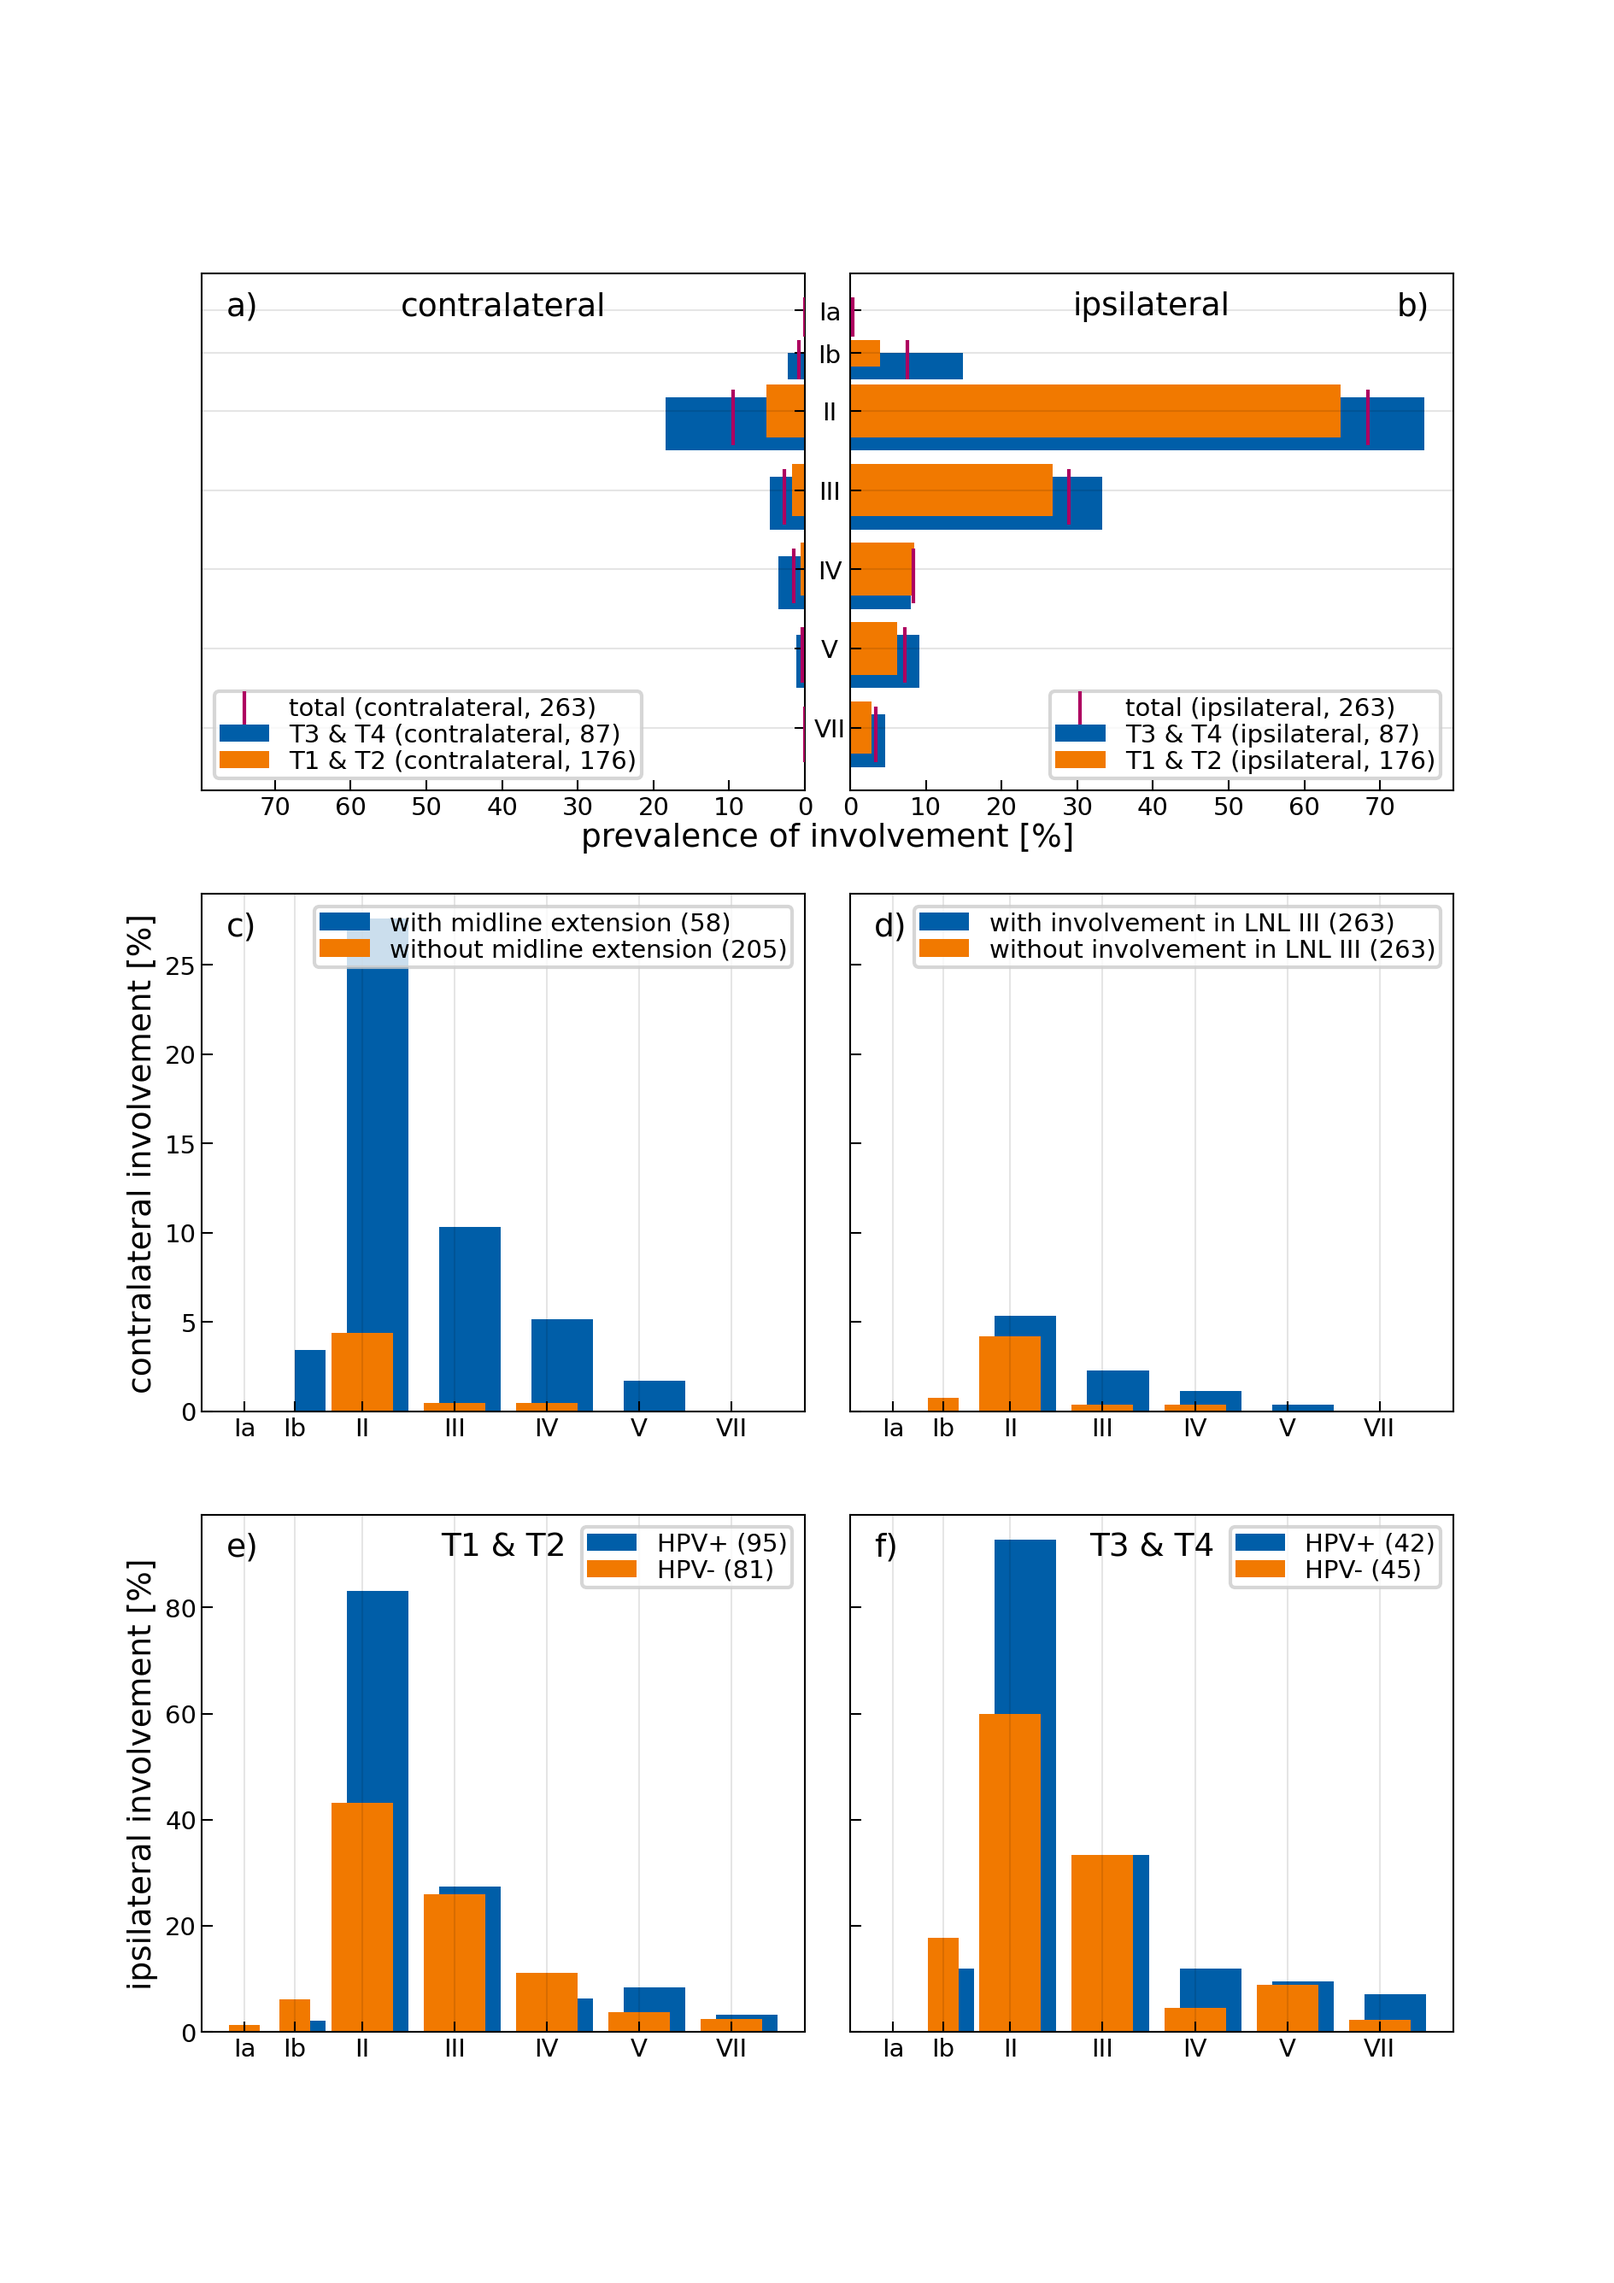
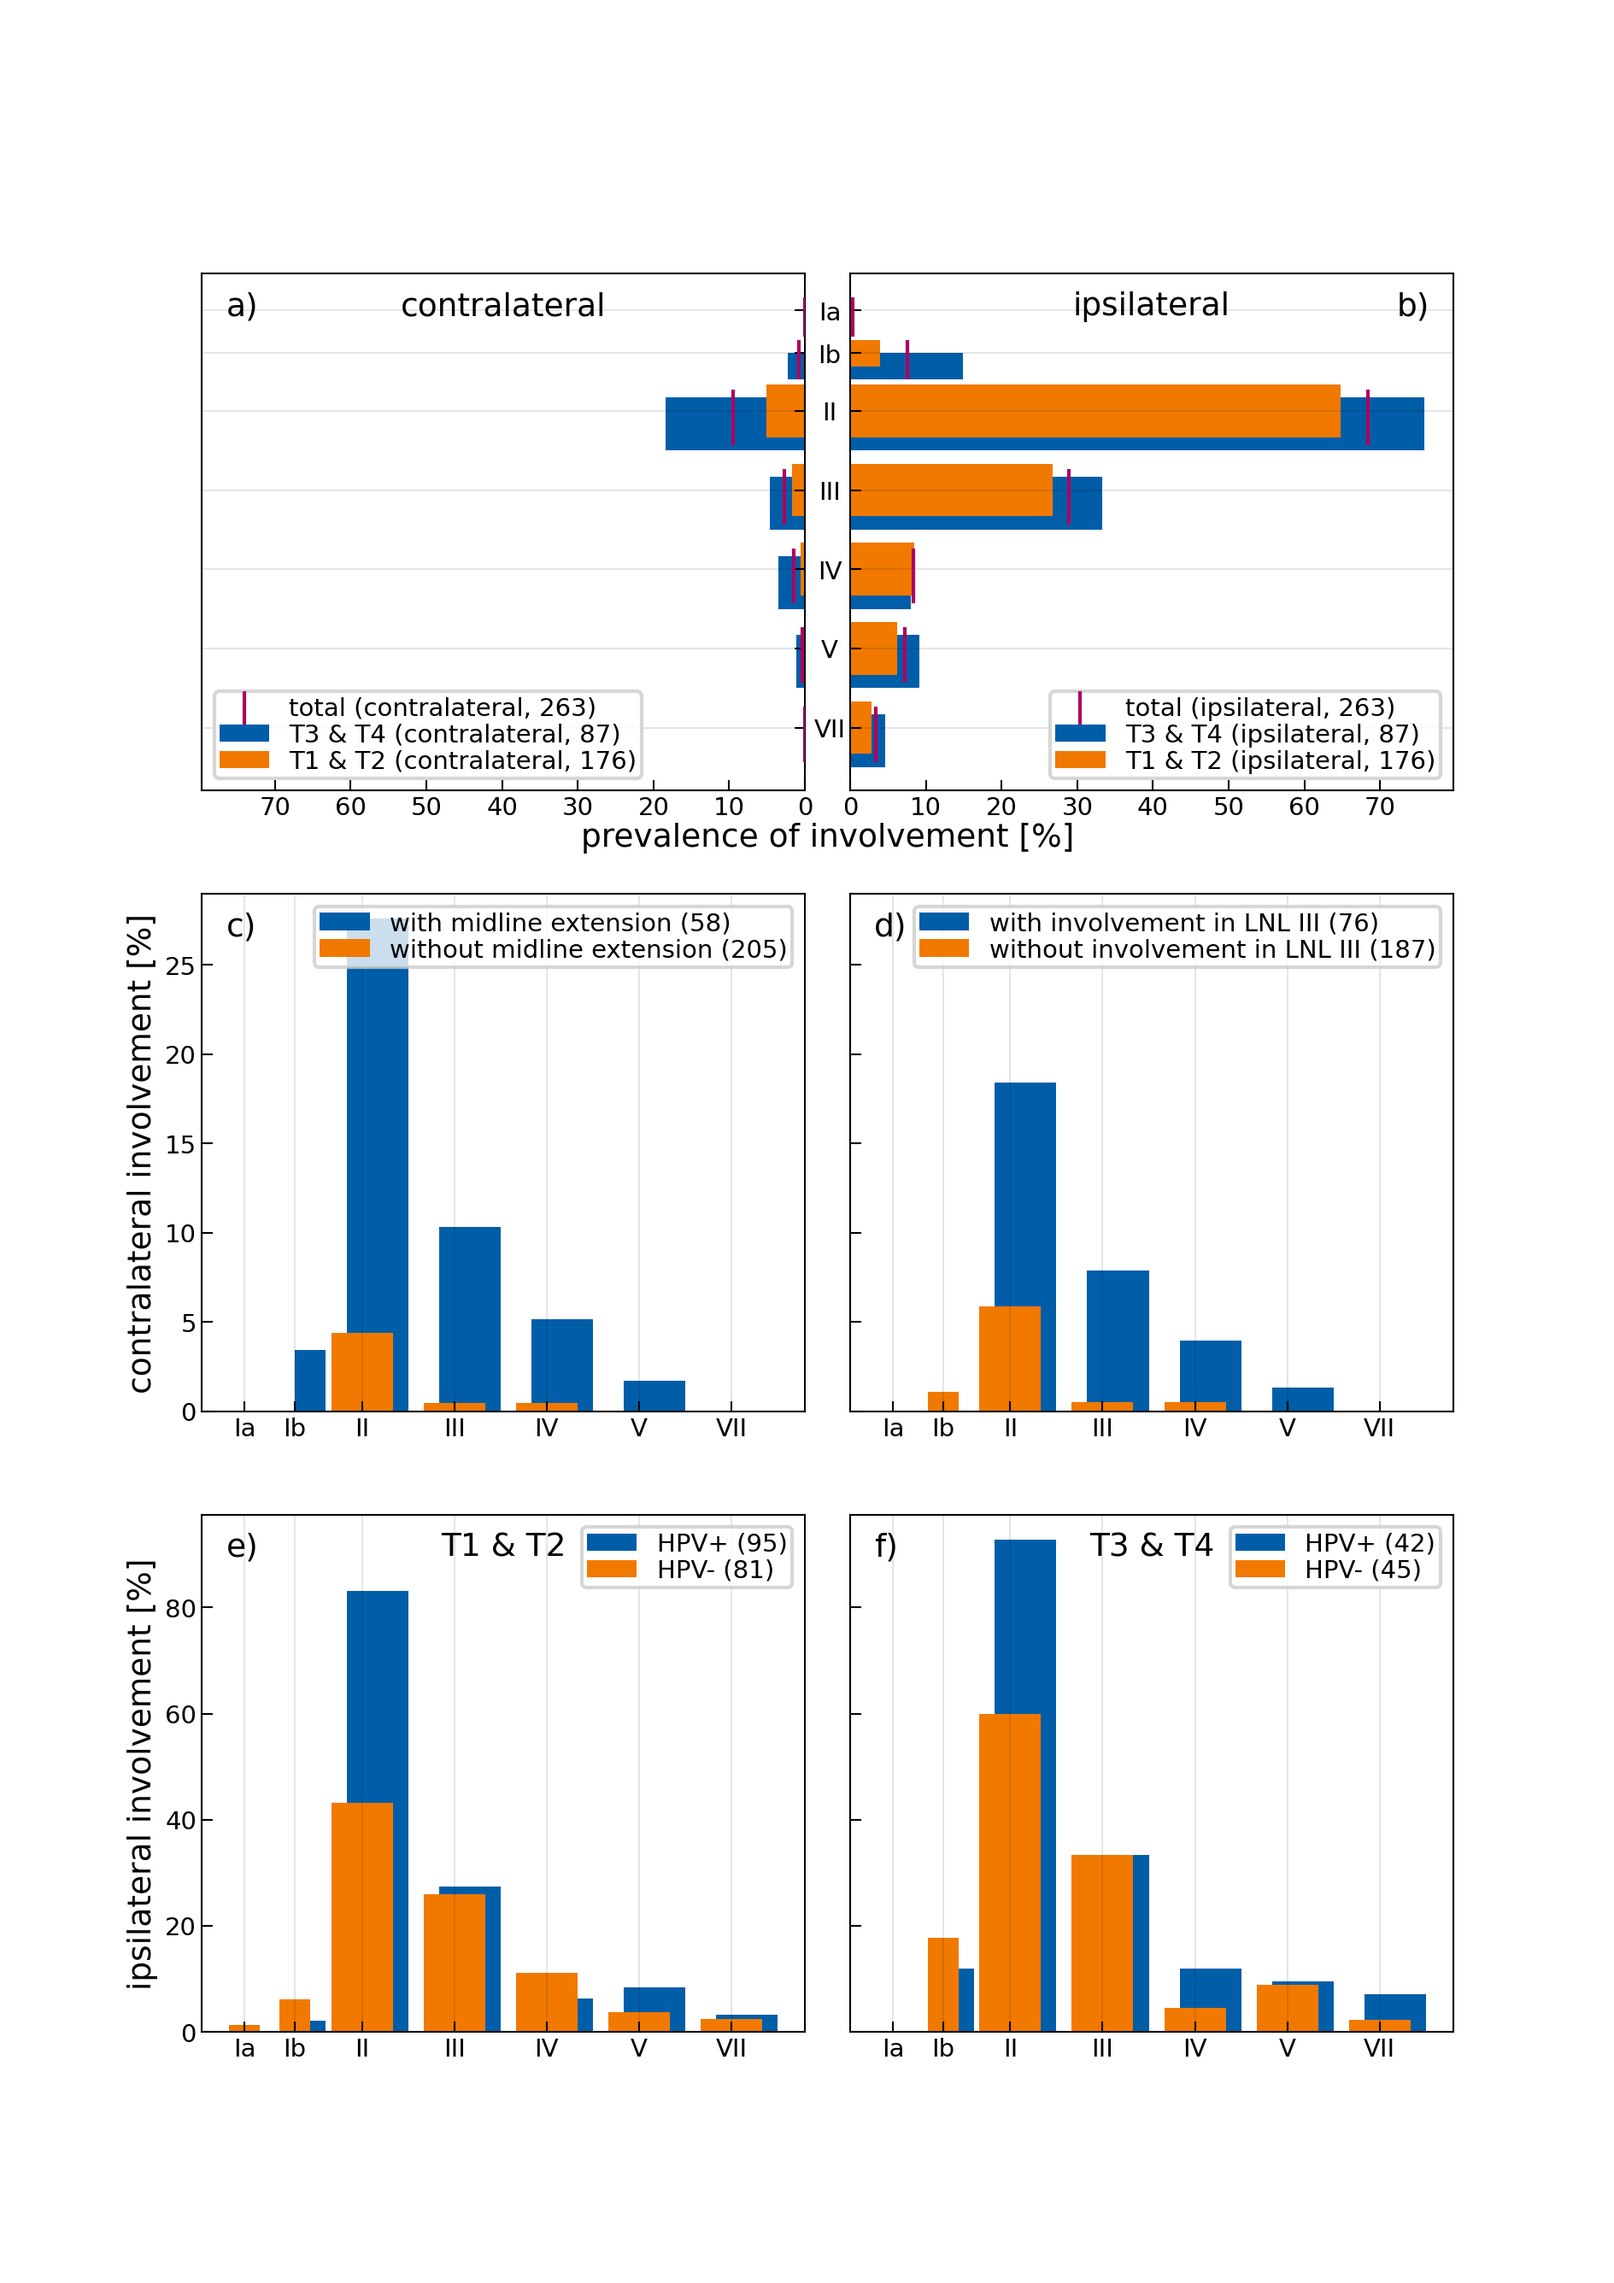
fix bug in script

Changed region(s): [[0.5934, 0.4659, 0.8433, 0.6213]]

diff --git a/content/dataset_clb/figures/statistics.py b/content/dataset_clb/figures/statistics.py
@@ -11,7 +11,7 @@ from lyscripts.plot.histograms import get_size
 
 
 DATAFILE = Path("../data/2021-clb-oropharynx-enhanced.csv")
-OUTPUT = Path(__file__).with_suffix(".svg")
+OUTPUT = Path(__file__).with_suffix(".png")
 
 # barplot settings
 WIDTH, SPACE = 0.8, 0.4
@@ -174,8 +174,8 @@ if __name__ == "__main__":
     ax["contra midext"].set_ylabel("contralateral involvement [%]")
     ax["contra midext"].legend()
 
-    num_ipsiIII = len(max_llh_data["ipsi", "III"] == True)
-    num_noipsiIII = len(max_llh_data["ipsi", "III"] != True)
+    num_ipsiIII = (max_llh_data["ipsi", "III"] == True).sum()
+    num_noipsiIII = (max_llh_data["ipsi", "III"] != True).sum()
     
     contra_ipsiIII = (100 / num_ipsiIII) * (
         max_llh_data["contra"] == True
